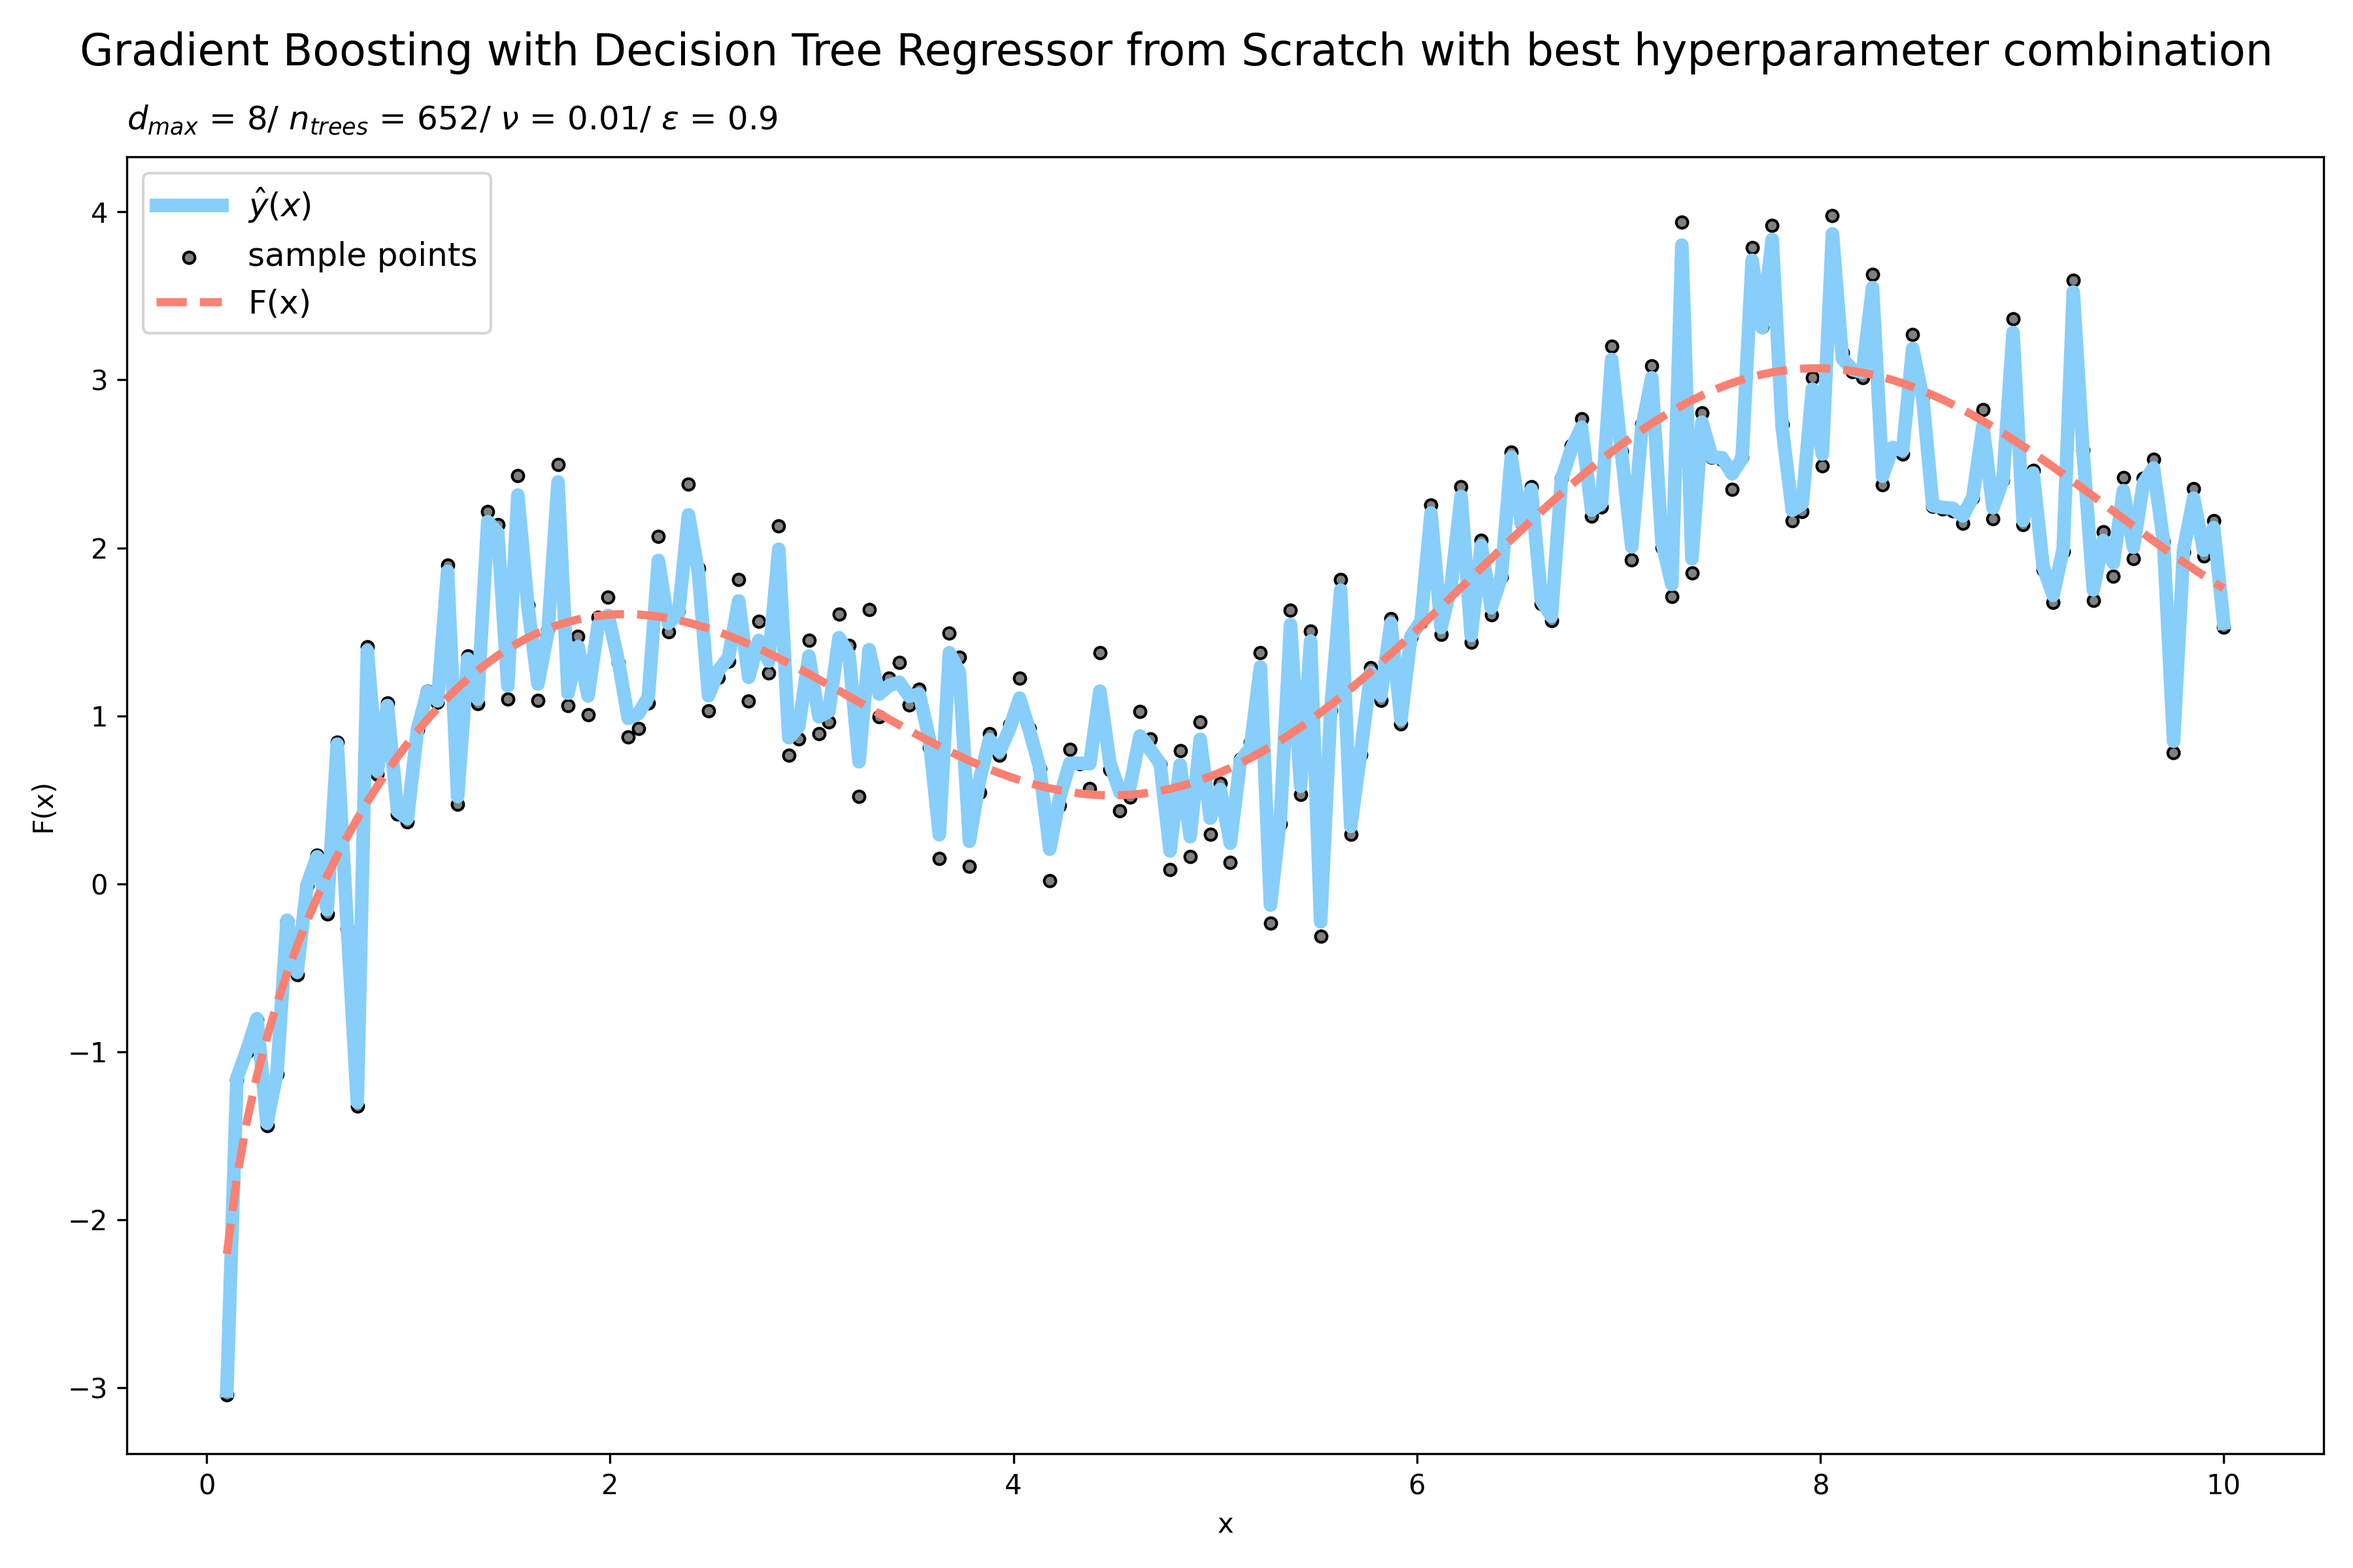
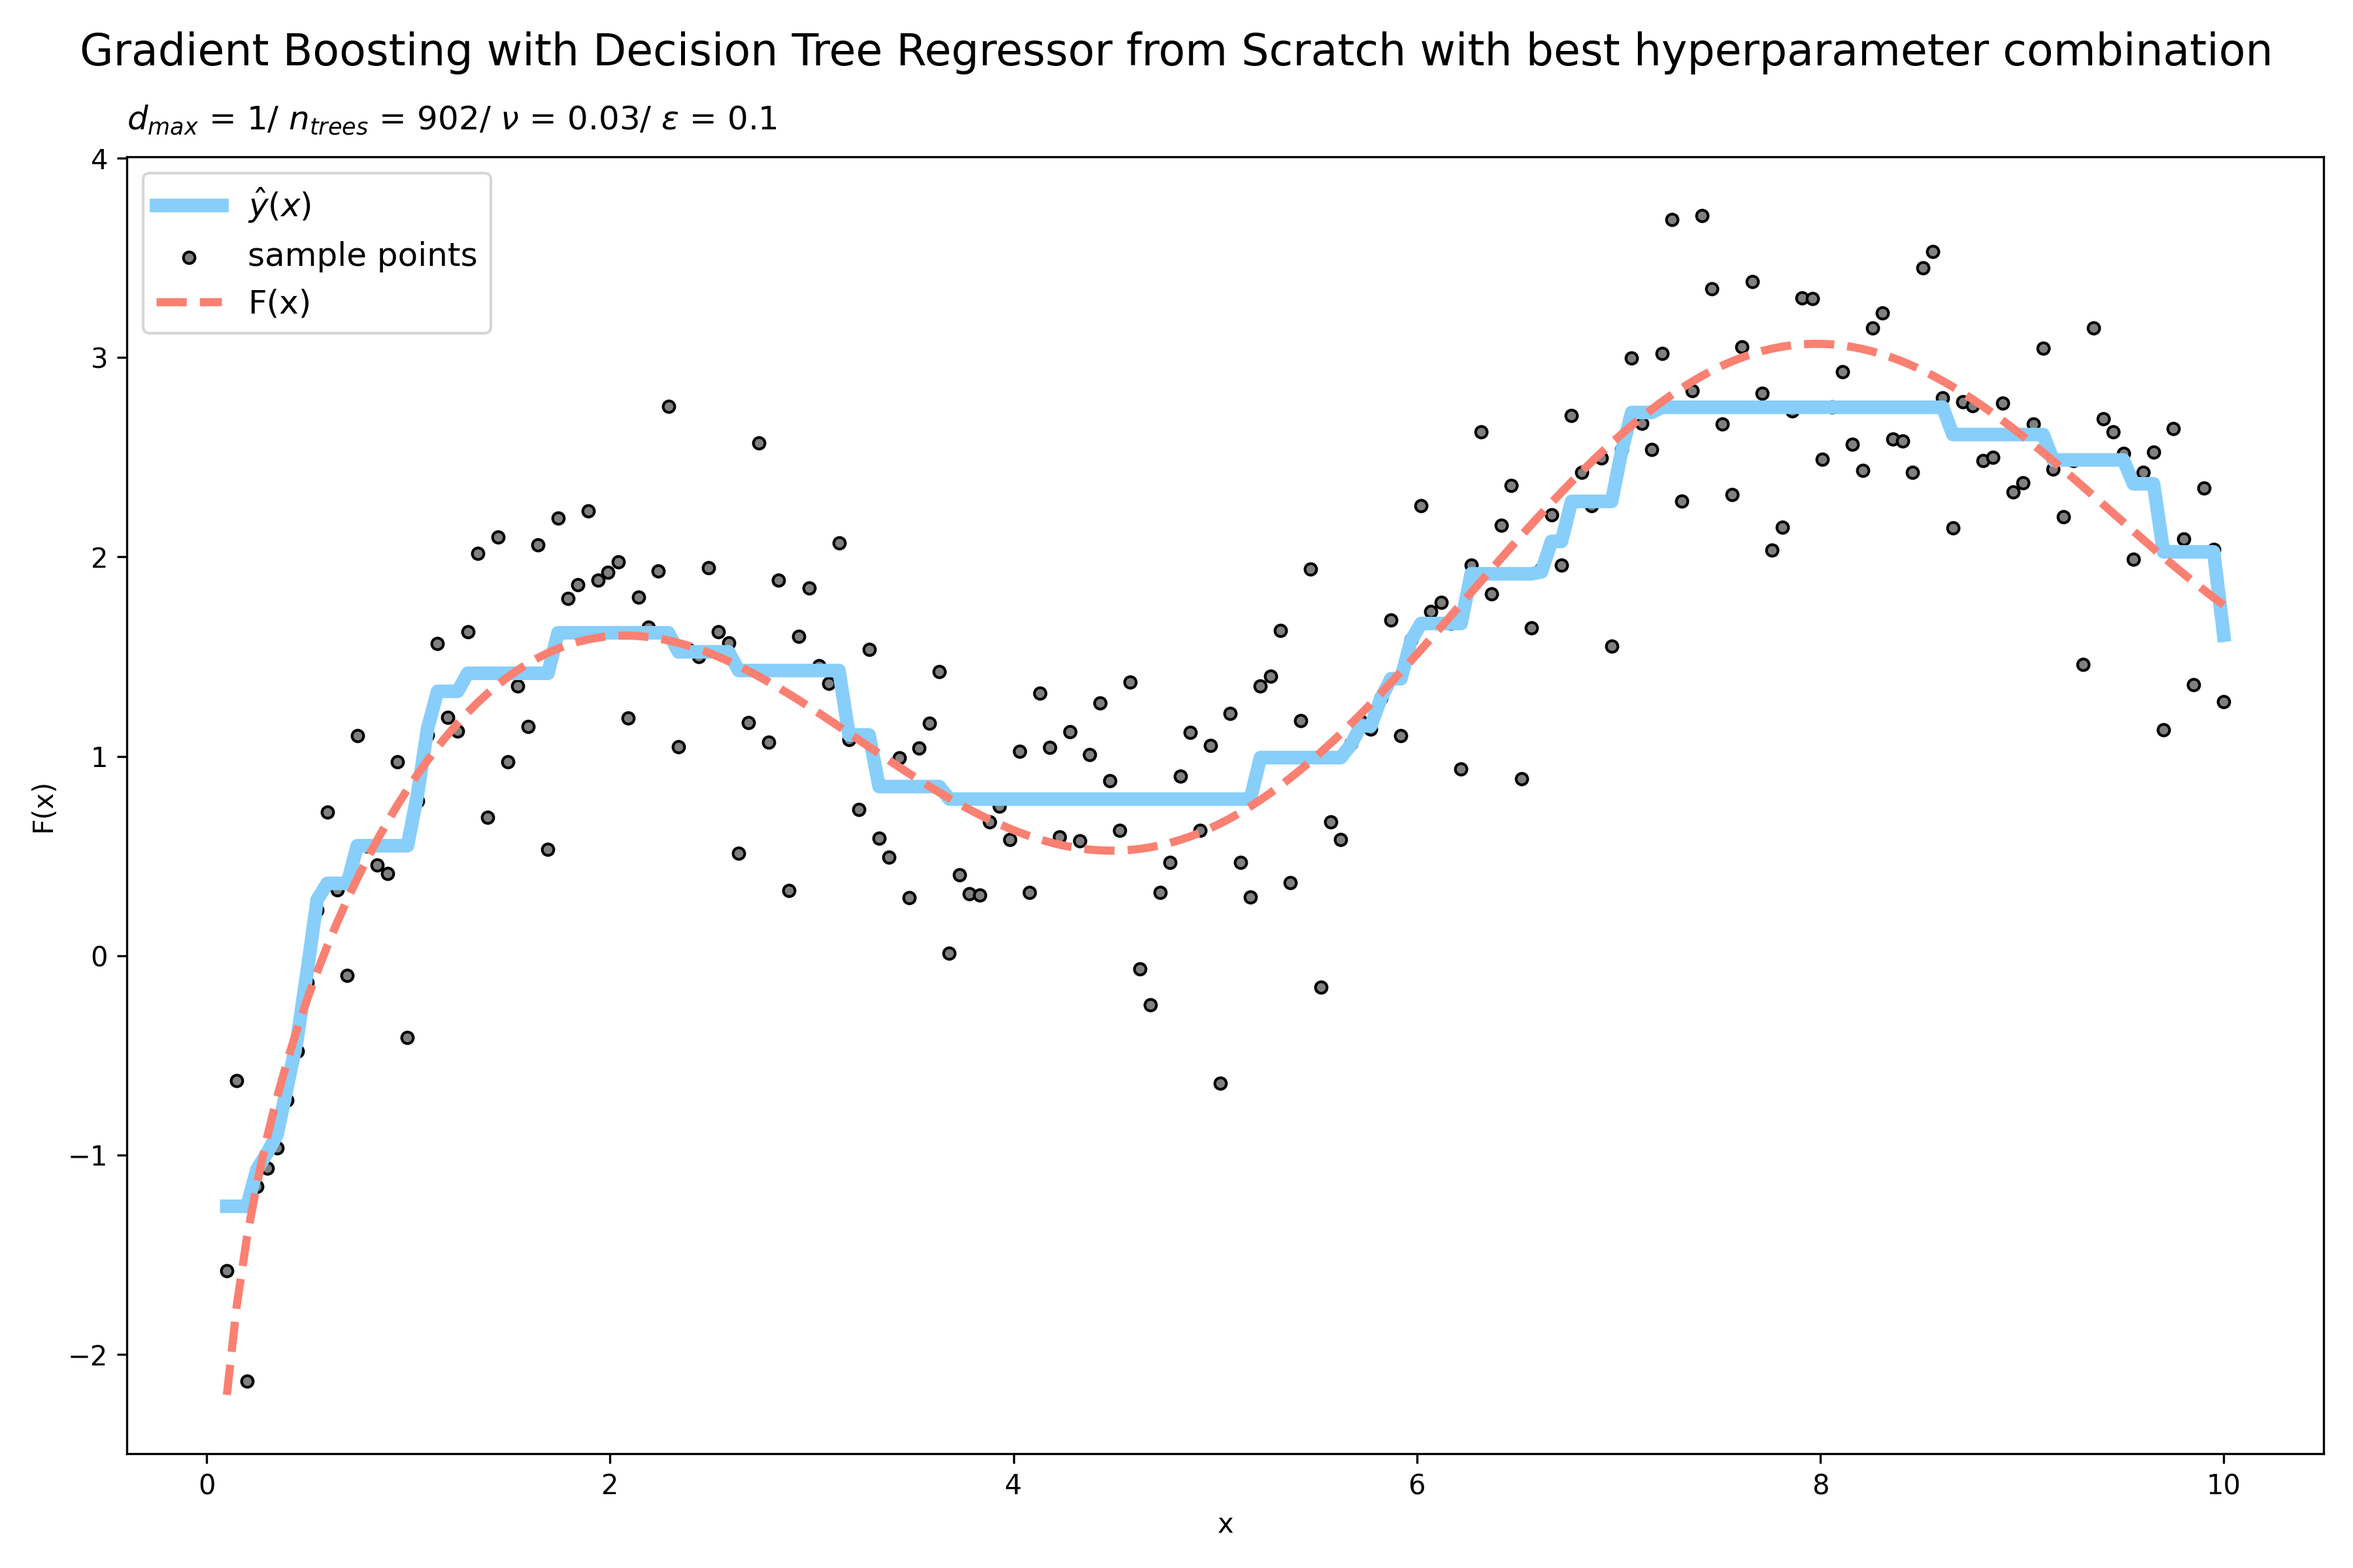
updated

Changed region(s): [[0.0933, 0.125, 0.9644, 0.9062]]

diff --git a/from_scratch/bayesian_optimization_testfunction_best_hyperparameters.py b/from_scratch/bayesian_optimization_testfunction_best_hyperparameters.py
@@ -23,7 +23,7 @@ X_0 = X.reshape(-1,1)
 ########################################
 #hyperparameters
 
-filename = "params_bayes_testfunction_ip=10_ni=100_2023-09-18.csv"
+filename = "params_bayes_testfunction_ip=10_ni=200_2023-09-19.csv"
 path = repo_path + "/models/" + filename
 params_gbm = pd.read_csv(path)
 
@@ -64,15 +64,16 @@ def plot_bo(save_plot) -> None:
         plt.savefig(repo_path + "/figures/" + "gbm_with_decision_tree_best_parameters.png", dpi=300)
     plt.show()
 
-#plot_bo(save_plot = True)
+plot_bo(save_plot = True)
 
 filenames = [
     "bo_iterations_ip=10_ni=100_2023-09-18.csv",
-    "bo_iterations_ip=10_ni=100_2023-09-19.csv"
+    "bo_iterations_ip=10_ni=100_2023-09-19.csv",
+    "bo_iterations_ip=10_ni=200_2023-09-19.csv"
 ]
 
 def plot_hyperparameter_scatter_plot(save_plot) -> None:
-    bo_iterations = pd.read_csv(repo_path + "/from_scratch/" + filenames[0])
+    bo_iterations = pd.read_csv(repo_path + "/from_scratch/" + filenames[2])
     target = bo_iterations["target"]
 
     cbt = [] ; lr = [] ; md = [] ; nt = []
@@ -110,4 +111,4 @@ def plot_hyperparameter_scatter_plot(save_plot) -> None:
     plt.show()
 
 
-plot_hyperparameter_scatter_plot(save_plot = True)
+#plot_hyperparameter_scatter_plot(save_plot = True)

diff --git a/bayesian_opt/bayesian_optimization.py b/bayesian_opt/bayesian_optimization.py
@@ -77,7 +77,7 @@ def sdr_switch( SDR ):
 
     if SDR == False:
         #standardized optimizer
-        gbm_bo = BayesianOptimization(gbm_reg_bo,params_gbm,random_state = 111) 
+        gbm_bo = BayesianOptimization(gbm_reg_bo,params_gbm) 
 
     elif SDR == True:
         #mutating optimizer
